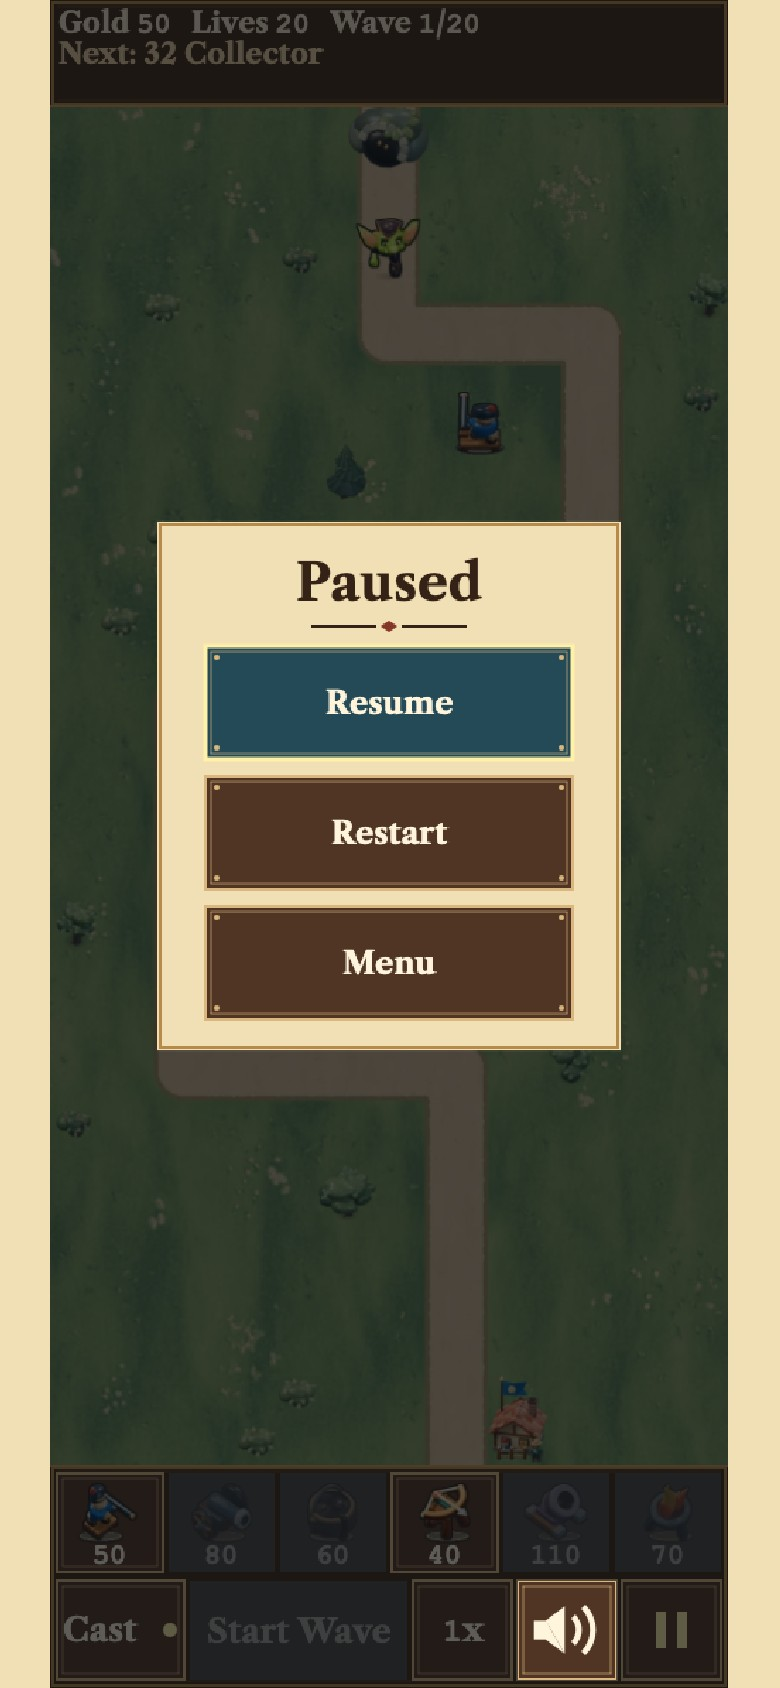
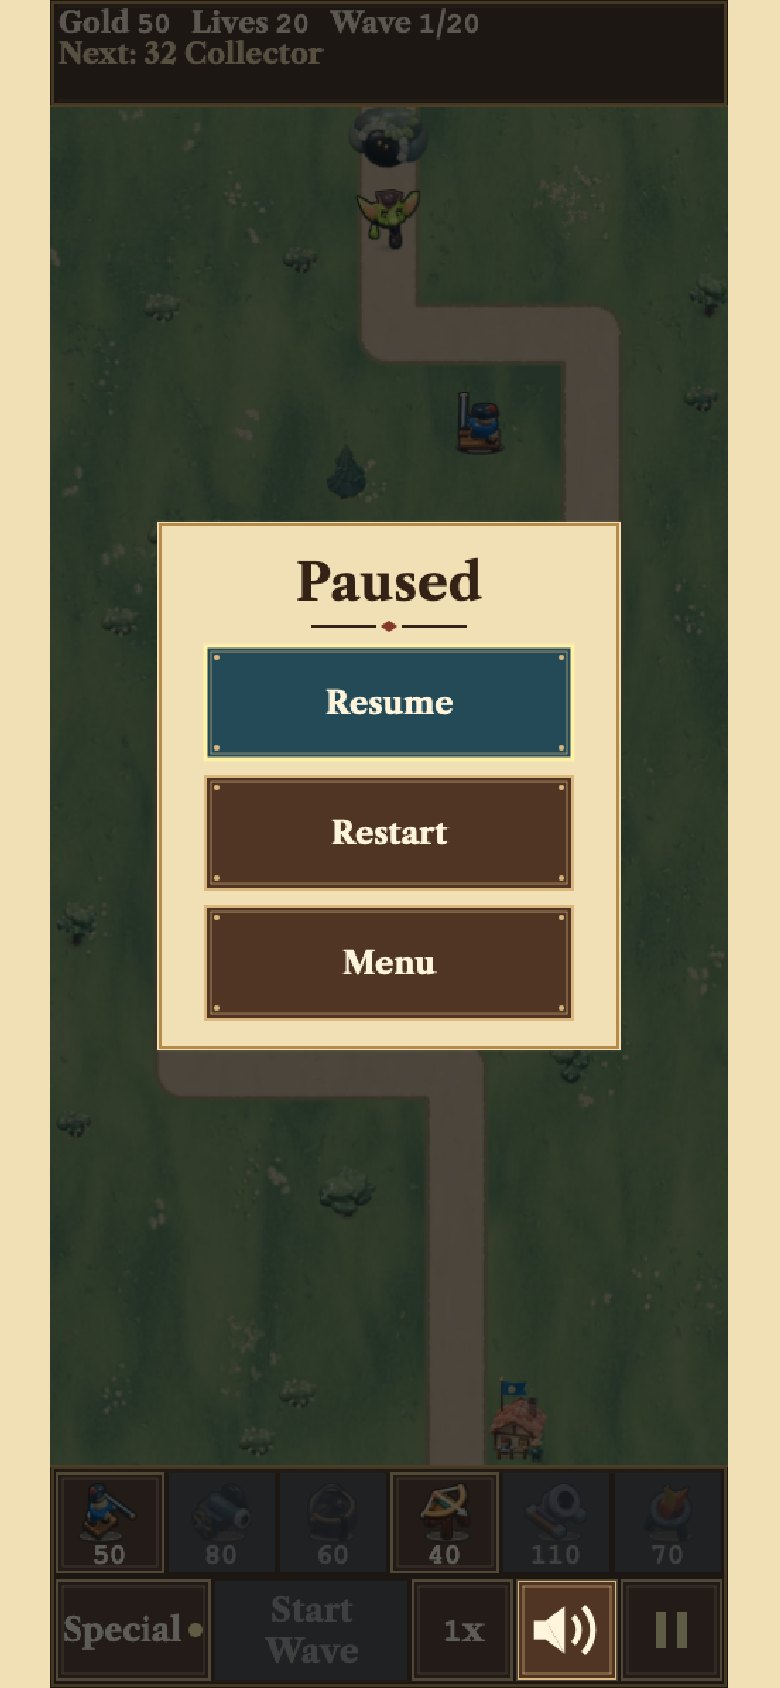
Keep Special named on the phone HUD

Changed region(s): [[0.0923, 0.9242, 0.4923, 1.0], [0.4615, 0.0924, 0.5231, 0.1848]]

diff --git a/src/game/names.ts b/src/game/names.ts
@@ -210,7 +210,6 @@ export const SPECIAL_NAMES: Readonly<Record<SpecialType, string>> = {
 
 /** The HUD's special button label (milestone 25b). */
 export const SPECIAL_BUTTON_TEXT = 'Special';
-export const SPECIAL_SHORT_TEXT = 'Cast';
 
 /** The verb in the aim banner per special (milestone 30). */
 const SPECIAL_VERBS: Readonly<Record<SpecialType, string>> = { keg: 'throw', tarBarrel: 'drop', fireArrows: 'shoot', barricade: 'place', guards: 'send' };
@@ -220,8 +219,8 @@ export function heldCountText(count: number): string {
   return `x${count}`;
 }
 export const GUARDS_UNLOCKED = 'Guards unlocked';
-export const GUARDS_UNLOCK_HINT = 'Use Special to send four guards.';
-export const BARRICADE_UNLOCK_HINT = 'Use Special to block the trail.';
+export const GUARDS_UNLOCK_HINT = `Use ${SPECIAL_BUTTON_TEXT} to send four guards.`;
+export const BARRICADE_UNLOCK_HINT = `Use ${SPECIAL_BUTTON_TEXT} to block the trail.`;
 export const BARRICADE_AIM_REASONS = {
   'off-trail': 'Aim closer to the trail.',
   'out-of-bounds': 'Aim inside the map.',
@@ -237,7 +236,7 @@ export const BARRICADE_AIM_REASONS = {
 export function aimBannerText(type: SpecialType, touch: boolean): { main: string; hint: string } {
   return {
     main: `${touch ? 'Tap' : 'Click'} the trail to ${SPECIAL_VERBS[type]} ${type === 'guards' ? 'guards' : `the ${SPECIAL_NAMES[type]}`}`,
-    hint: touch ? 'Or hold to aim and lift to let go. Special again cancels.' : 'Esc or Special again cancels.',
+    hint: touch ? `Or hold to aim and lift to let go. ${SPECIAL_BUTTON_TEXT} again cancels.` : `Esc or ${SPECIAL_BUTTON_TEXT} again cancels.`,
   };
 }
 
@@ -448,13 +447,13 @@ export const tipsHeading = (id: number): string => `Level ${id} tips`;
 function campaignTips(touch: boolean): Readonly<Record<number, readonly string[]>> {
   const action = touch ? 'Tap' : 'Click';
   return {
-    1: [touch ? 'Tap a tower, then tap a square by the trail twice.' : 'Click a tower, then click a square by the trail.', 'Press Start Wave to let the Goblin Collectors in.', `${action} Special, then ${action.toLowerCase()} the trail to hit a pack.`],
+    1: [touch ? 'Tap a tower, then tap a square by the trail twice.' : 'Click a tower, then click a square by the trail.', `Press ${START_WAVE_TEXT} to let the Goblin Collectors in.`, `${action} ${SPECIAL_BUTTON_TEXT}, then ${action.toLowerCase()} the trail to hit a pack.`],
     2: ['Build a Cannon beside a bend.', 'Each blast hits Goblin Collectors that stand close together.'],
     3: ['Put a Tar Pit beside the trail to slow fast Revenue Hounds.', 'Build towers nearby to hit them as they slow down.'],
     4: ['Slow the Redcoat Shieldbearers with a Tar Pit.', 'Put a Fire Pot nearby. Tar makes the fire burn harder.'],
     5: ['Longbows and Musketeers can hit flying Royal Harpies.', 'Fire Pots can hit Royal Harpies, but the fire won’t stick.', 'Drop a Tar Barrel on a crowd to slow it down.'],
     6: ['A Mortar shoots far but takes time between shots.', 'Aim at slow Toll Trolls. Keep bows for Royal Harpies.', 'It cannot hit enemies right beside it.'],
-    7: [`${action} Special and choose Barricade.`, `${action} the trail ahead of a pack, near your towers.`, 'The wall holds walkers still while your towers fire.'],
+    7: [`${action} ${SPECIAL_BUTTON_TEXT} and choose Barricade.`, `${action} the trail ahead of a pack, near your towers.`, 'The wall holds walkers still while your towers fire.'],
     8: ['Send Guards ahead of a pack of Redcoat Shieldbearers.', 'Place them on the trail where your towers can help.', 'Drop Fire Arrows on a crowd to burn it.'],
     9: [`${action} a tower you have upgraded once.`, 'Pick an upgrade before Assessor Grumblefoot arrives.'],
     10: ['King Grumblemaw calls Revenue Hounds. Save a Powder Keg.', 'Slow King Grumblemaw with tar, then hit him with fire.'],

diff --git a/e2e/hudButtonLabels.ts b/e2e/hudButtonLabels.ts
@@ -21,6 +21,7 @@ async function checkLabel(page: Page, key: string, text: string) {
       const scale = (t.canvasToPage(100, 0).x - t.canvasToPage(0, 0).x) / 100;
       return {
         css: parseFloat(String(label.style.fontSize)) * scale * Math.min(label.scaleX, label.scaleY),
+        lines: label.getWrappedText().length,
         padding: Math.min(b.left - rect.x, rect.x + rect.width - b.right, b.top - rect.y, rect.y + rect.height - b.bottom),
       };
     }
@@ -28,7 +29,9 @@ async function checkLabel(page: Page, key: string, text: string) {
   expect(label, key + ' ' + text).toBeDefined();
   const description = page.viewportSize()!.height + 'px ' + key + ' ' + text;
   test.info().annotations.push({ type: 'font', description: description + ' ' + label!.css.toFixed(2) });
-  expect.soft(label!.css, description).toBeGreaterThanOrEqual(12);
+  const shortPhoneLabel = page.viewportSize()!.height === 664 && (key === 'special' || key === 'startWave');
+  expect.soft(label!.css, description).toBeGreaterThanOrEqual(shortPhoneLabel ? 11 : 12);
+  if (key === 'startWave') expect.soft(label!.lines, description).toBeLessThanOrEqual(2);
   expect.soft(label!.padding, description).toBeGreaterThanOrEqual(0);
 }
 
@@ -92,7 +95,7 @@ export function hudButtonSuite() {
     }
   }
   for (const mode of ['Caslon', 'fallback', 'tall Caslon', 'tall fallback']) {
-    test('HUD button labels fit at 12 CSS px with ' + mode, async ({ page }, info) => {
+    test('HUD button labels fit with ' + mode, async ({ page }, info) => {
       if (mode.startsWith('tall')) await useTallFontMetrics(page, mode === 'tall fallback');
       else if (mode === 'fallback') await page.route('**/*.woff2', route => route.abort());
       const sizes = info.project.name === 'phone' ? [{ width: 390, height: 844 }, { width: 390, height: 664 }] : [page.viewportSize()!];
@@ -124,14 +127,17 @@ export function hudButtonSuite() {
             }
           }
         }
-        await checkLabel(page, 'startWave', 'Start Wave');
+        await test.step('Show the HUD names used in tips, hints and cards', async () => {
+          await checkLabel(page, 'startWave', 'Start Wave');
+          await checkLabel(page, 'special', 'Special');
+        });
         for (const speed of [1, 2, 3] as const) {
           await page.evaluate(speed => window.__tarpit!.setSpeed!(speed), speed);
           await checkLabel(page, 'speed', speed + 'x');
         }
         await postSpawn(page, 1);
         await checkLabel(page, 'startWave', callEarlyLabel(EARLY_CALL_MAX_BONUS, phone));
-        await checkLabel(page, 'special', phone ? 'Cast' : 'Special');
+        await checkLabel(page, 'special', 'Special');
         await api(page, t => t.useSpecialAt('keg', 200, 240));
         await checkLabel(page, 'special', phone ? '20s' : 'Wait 20s');
         // Keep the wave running and draw each bonus and countdown through the real HUD.

diff --git a/src/game/hud.ts b/src/game/hud.ts
@@ -67,7 +67,6 @@ import {
   rechargeText,
   PAUSE_TEXT,
   SPECIAL_BUTTON_TEXT,
-  SPECIAL_SHORT_TEXT,
   speedLabel,
   START_WAVE_TEXT,
   waveCounterText,
@@ -436,7 +435,10 @@ export class Hud {
     this.startButton = new Button(scene, m.start, START_WAVE_TEXT, handlers.onStartWave, m.portrait ? { fontSize: m.startFont, sound: null } : { sound: null });
     if (m.portrait) {
       // Reserve two lines inside the wave plaque, including ascenders and descenders.
-      this.startButton.labelObjects[0].setStyle({ metrics: { ascent: 23, descent: 6, fontSize: 29 } });
+      // Wrap at the tall phone's width; a narrower plaque scales the same two lines.
+      this.startButton.labelObjects[0]
+        .setStyle({ metrics: { ascent: 23, descent: 6, fontSize: 29 } })
+        .setWordWrapWidth(m.start.width - 6, true);
     }
     this.speedButton = new Button(scene, m.speed, '1x', handlers.onToggleSpeed, { onPress: handlers.onSpeedPress, fontSize: m.portrait ? m.startFont : undefined });
     this.specialMenu = new SpecialMenu(scene, m.menu.left, m.menu.top, handlers.onSpecialPick, layout.map.y, m.menu.size, m.menu.font);
@@ -467,7 +469,6 @@ export class Hud {
           this.pauseButton.setSize(row.pause.width, row.pause.height);
           this.pauseButton.moveTo(row.pause.x, row.pause.y);
         }
-        this.startButton.labelObjects[0].setWordWrapWidth(m.start.width - 6, true);
       }
       this.pauseIcon.setPosition(m.pause.x + m.pause.width / 2,
         m.pause.y + (m.portrait ? (m.pause.height - iconHeight) / 2 : 16));
@@ -563,8 +564,7 @@ export class Hud {
     const ready = specialReady(state);
     const recharge = specialRecharge(state);
     // Milestone 30 follow-up: while the charge refills the label is the countdown ("Wait 15s").
-    const specialText = m.portrait ? SPECIAL_SHORT_TEXT : SPECIAL_BUTTON_TEXT;
-    this.specialButton.set(recharge ? rechargeText(state.specialRechargeTicks, TICKS_PER_SECOND, m.portrait) : specialText, ready);
+    this.specialButton.set(recharge ? rechargeText(state.specialRechargeTicks, TICKS_PER_SECOND, m.portrait) : SPECIAL_BUTTON_TEXT, ready);
     if (m.portrait) {
       const specialLabel = this.specialButton.labelObjects[0];
       specialLabel.setScale(Math.min(1, (m.special.width - (recharge ? 7 : 24)) / specialLabel.width), 1);

diff --git a/src/game/ui/geometry.ts b/src/game/ui/geometry.ts
@@ -66,7 +66,7 @@ export function portraitRow2(cssScale = 1) {
   // The space between the tower row and canvas bottom can fit an 80 px square.
   const icon = Math.min(80, Math.max(height, Math.ceil(44 / cssScale)));
   const innerWidth = PORTRAIT_WIDTH - 2 * PORTRAIT_BAR_LEFT;
-  const specialWidth = 90;
+  const specialWidth = 108;
   const speedWidth = height;
   const startWidth = innerWidth - 4 * PORTRAIT_BAR_GAP - specialWidth - speedWidth - 2 * icon;
   let x = PORTRAIT_BAR_LEFT;

diff --git a/docs/DESIGN.md b/docs/DESIGN.md
@@ -1316,14 +1316,16 @@ drawn and where touches land differ.
   each the tower's map shape over its cost, because a name at 18 px does
   not fit 75 px) and a lower row with Special, Start Wave, speed, mute and Pause.
   Both rows have 5 px outer margins and 4 px gaps. Of the 470 px inner
-  width, Special uses 90 px and speed uses 70 px. Mute and Pause are
+  width, Special uses 108 px and speed uses 70 px. Mute and Pause are
   matching squares centred on the row. They use 70 px at 390 × 844 and
   80 px at 390 × 664 to keep Pause at least 44 CSS px. Start Wave takes
-  the remaining 154 or 134 px. Its 23 px label wraps to two lines when
+  the remaining 136 or 116 px. Its 23 px label wraps to two lines when
   needed. Call next shows its bonus on the second line. A blocked call
-  shows its reason alone. Special reads “Cast” beside its status dot
-  and shows the seconds remaining while recharging. Wave, Special and
-  speed labels retain at least 12 CSS px at both heights.
+  shows its reason alone. Tips, unlock hints and cards use the same control
+  names “Special” and “Start Wave” printed on the HUD. Special has a status dot
+  and shows the seconds remaining while recharging. At 390 × 844 the row
+  labels retain at least 12 CSS px. At 390 × 664 Special and wave labels
+  retain at least 11 CSS px and speed retains at least 12 CSS px.
   The next-wave preview starts at y=28. Two 23 px lines fit above the brass edge at y=74. At 390 × 844 the 20 px type reads at 14.1 CSS px and a 70 px button measures 49.5 CSS px.
   On a 390 x 763 CSS px phone (standalone, inside the safe areas) the
   canvas fits at 0.639: buttons are 44.7 CSS px, 20 px text 12.8 CSS px and a

diff --git a/DEVLOG.md b/DEVLOG.md
@@ -9497,6 +9497,8 @@ Linux measured “Pick a reward” at 10.69 CSS px. The phone row now uses the r
 
 The label checks passed on an oversized canvas that let the bottom row overhang and shifted the map left. Browser checks now compare both rows with the painted panel and the page centre.
 
+The phone plaque now reads “Special”, matching the campaign instructions. Moving 18 canvas px from Start Wave to Special keeps the charge dot clear. Across Caslon and fallback, including tall metrics, the smallest row label measured 14.08 CSS px at 390 × 844 and 11.08 CSS px at 390 × 664.
+
 ## 2026-11-24: milestone 46, the town and its story
 
 All three roads end at the same four-cell arrangement. Two cells overlap
